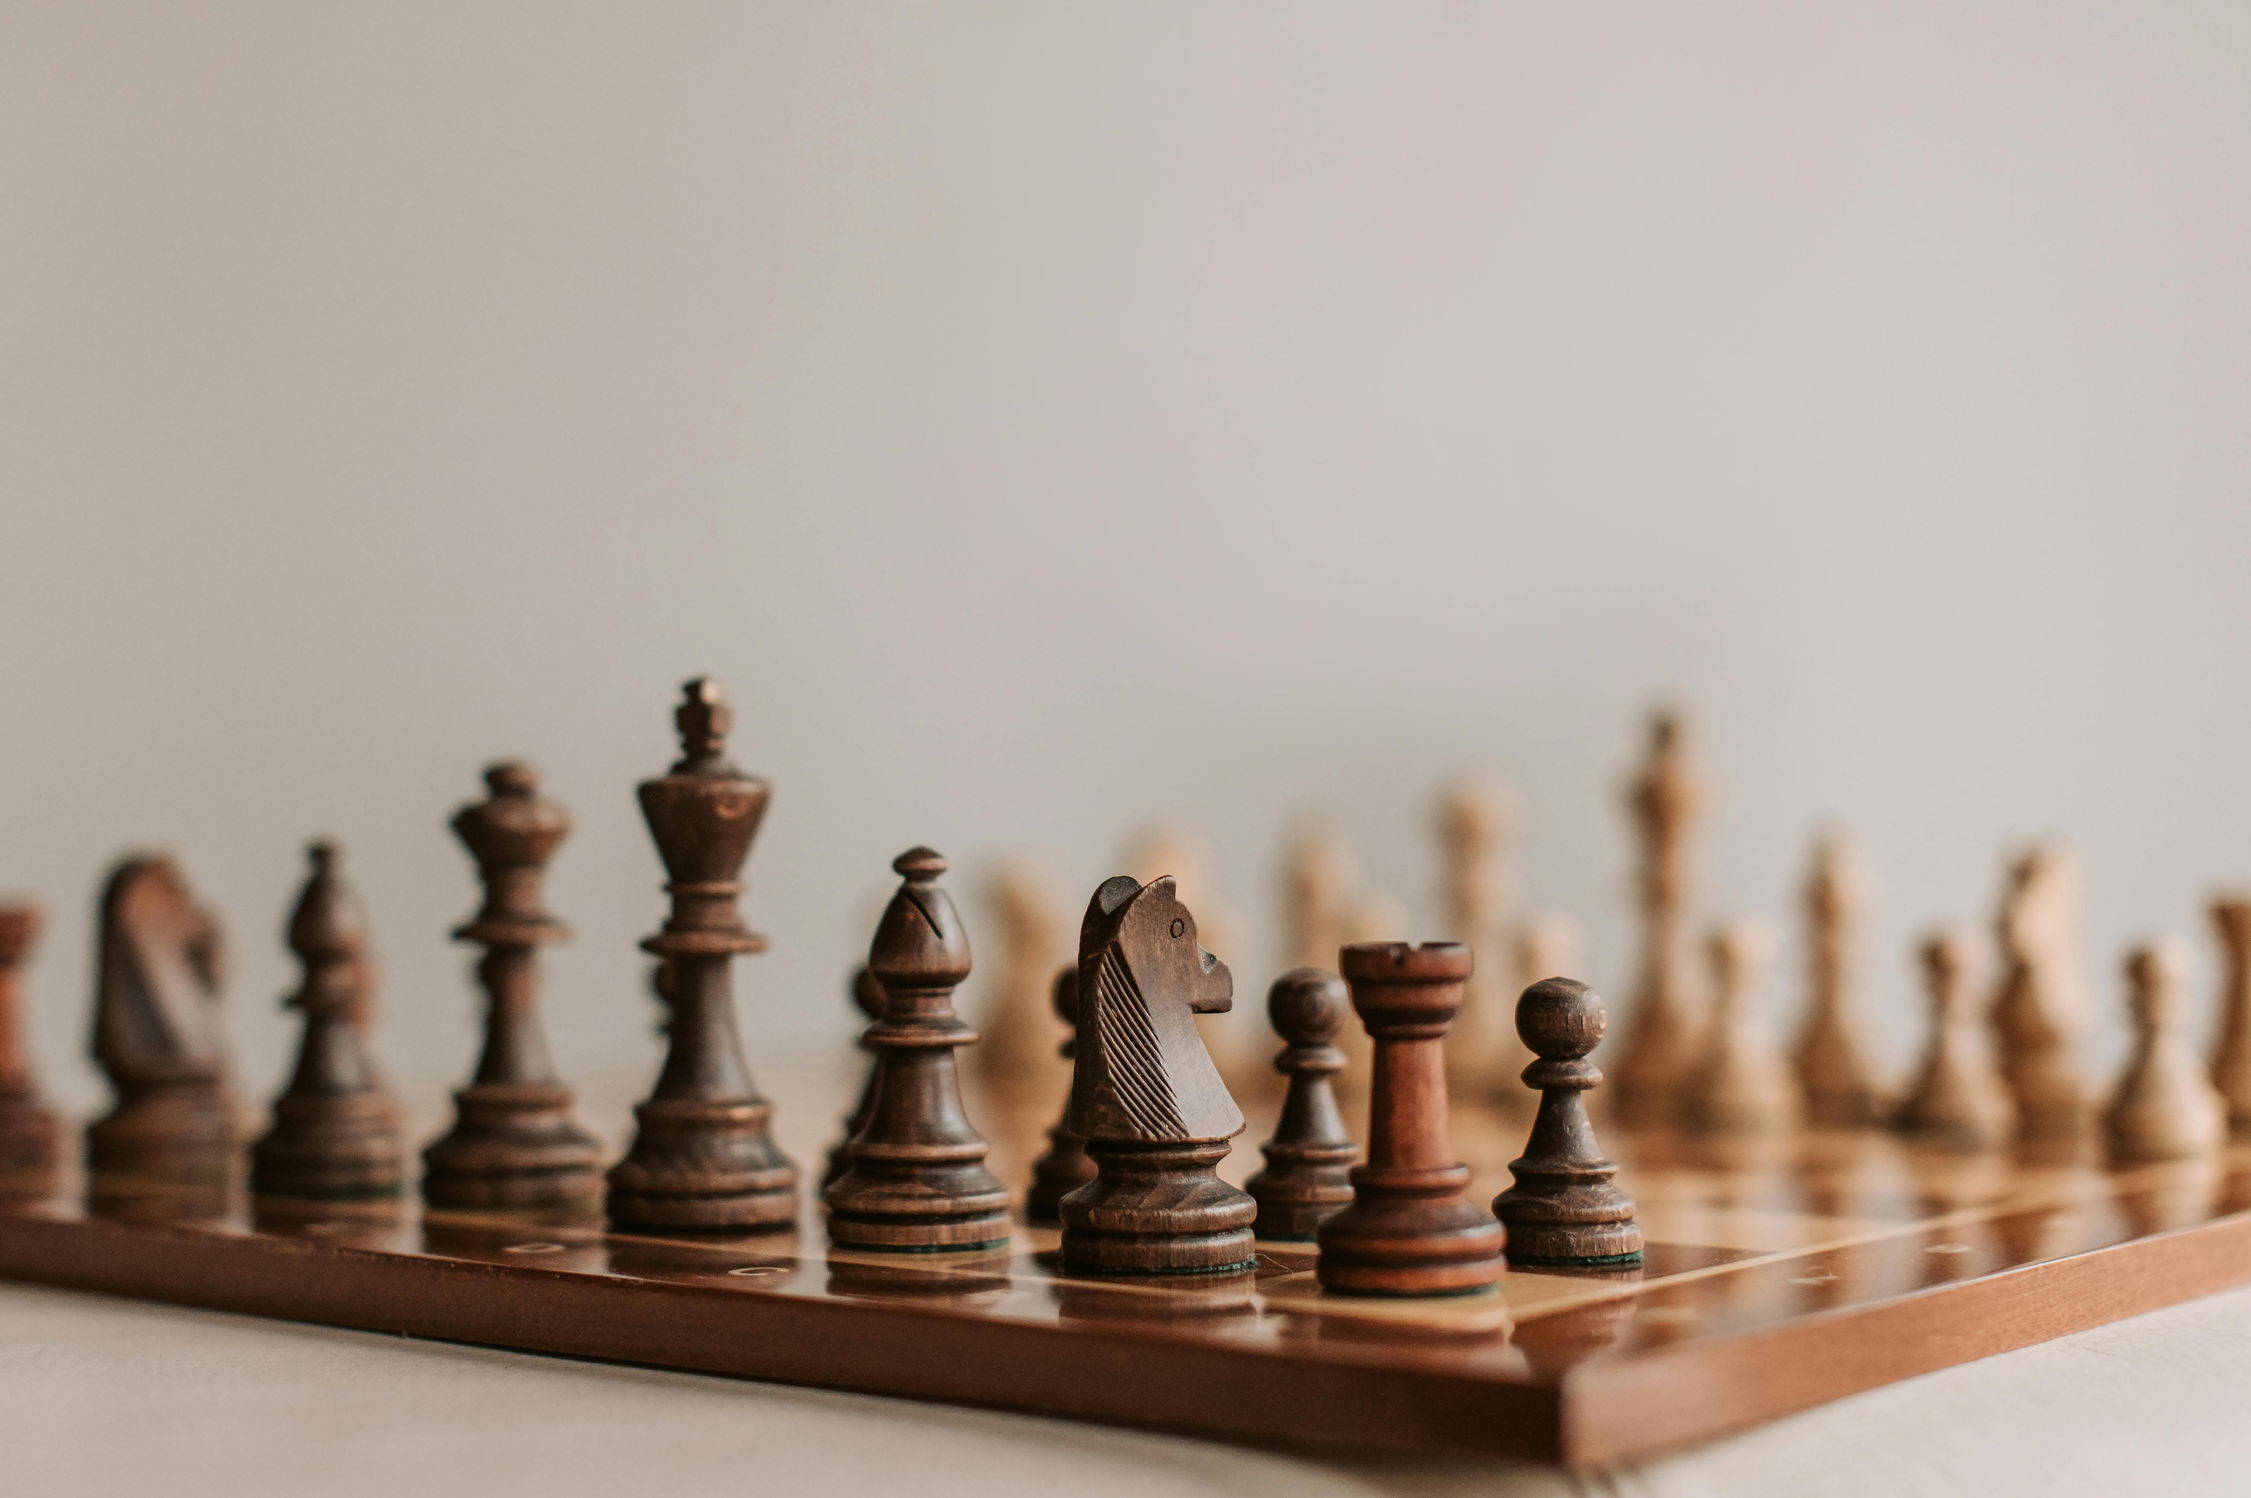
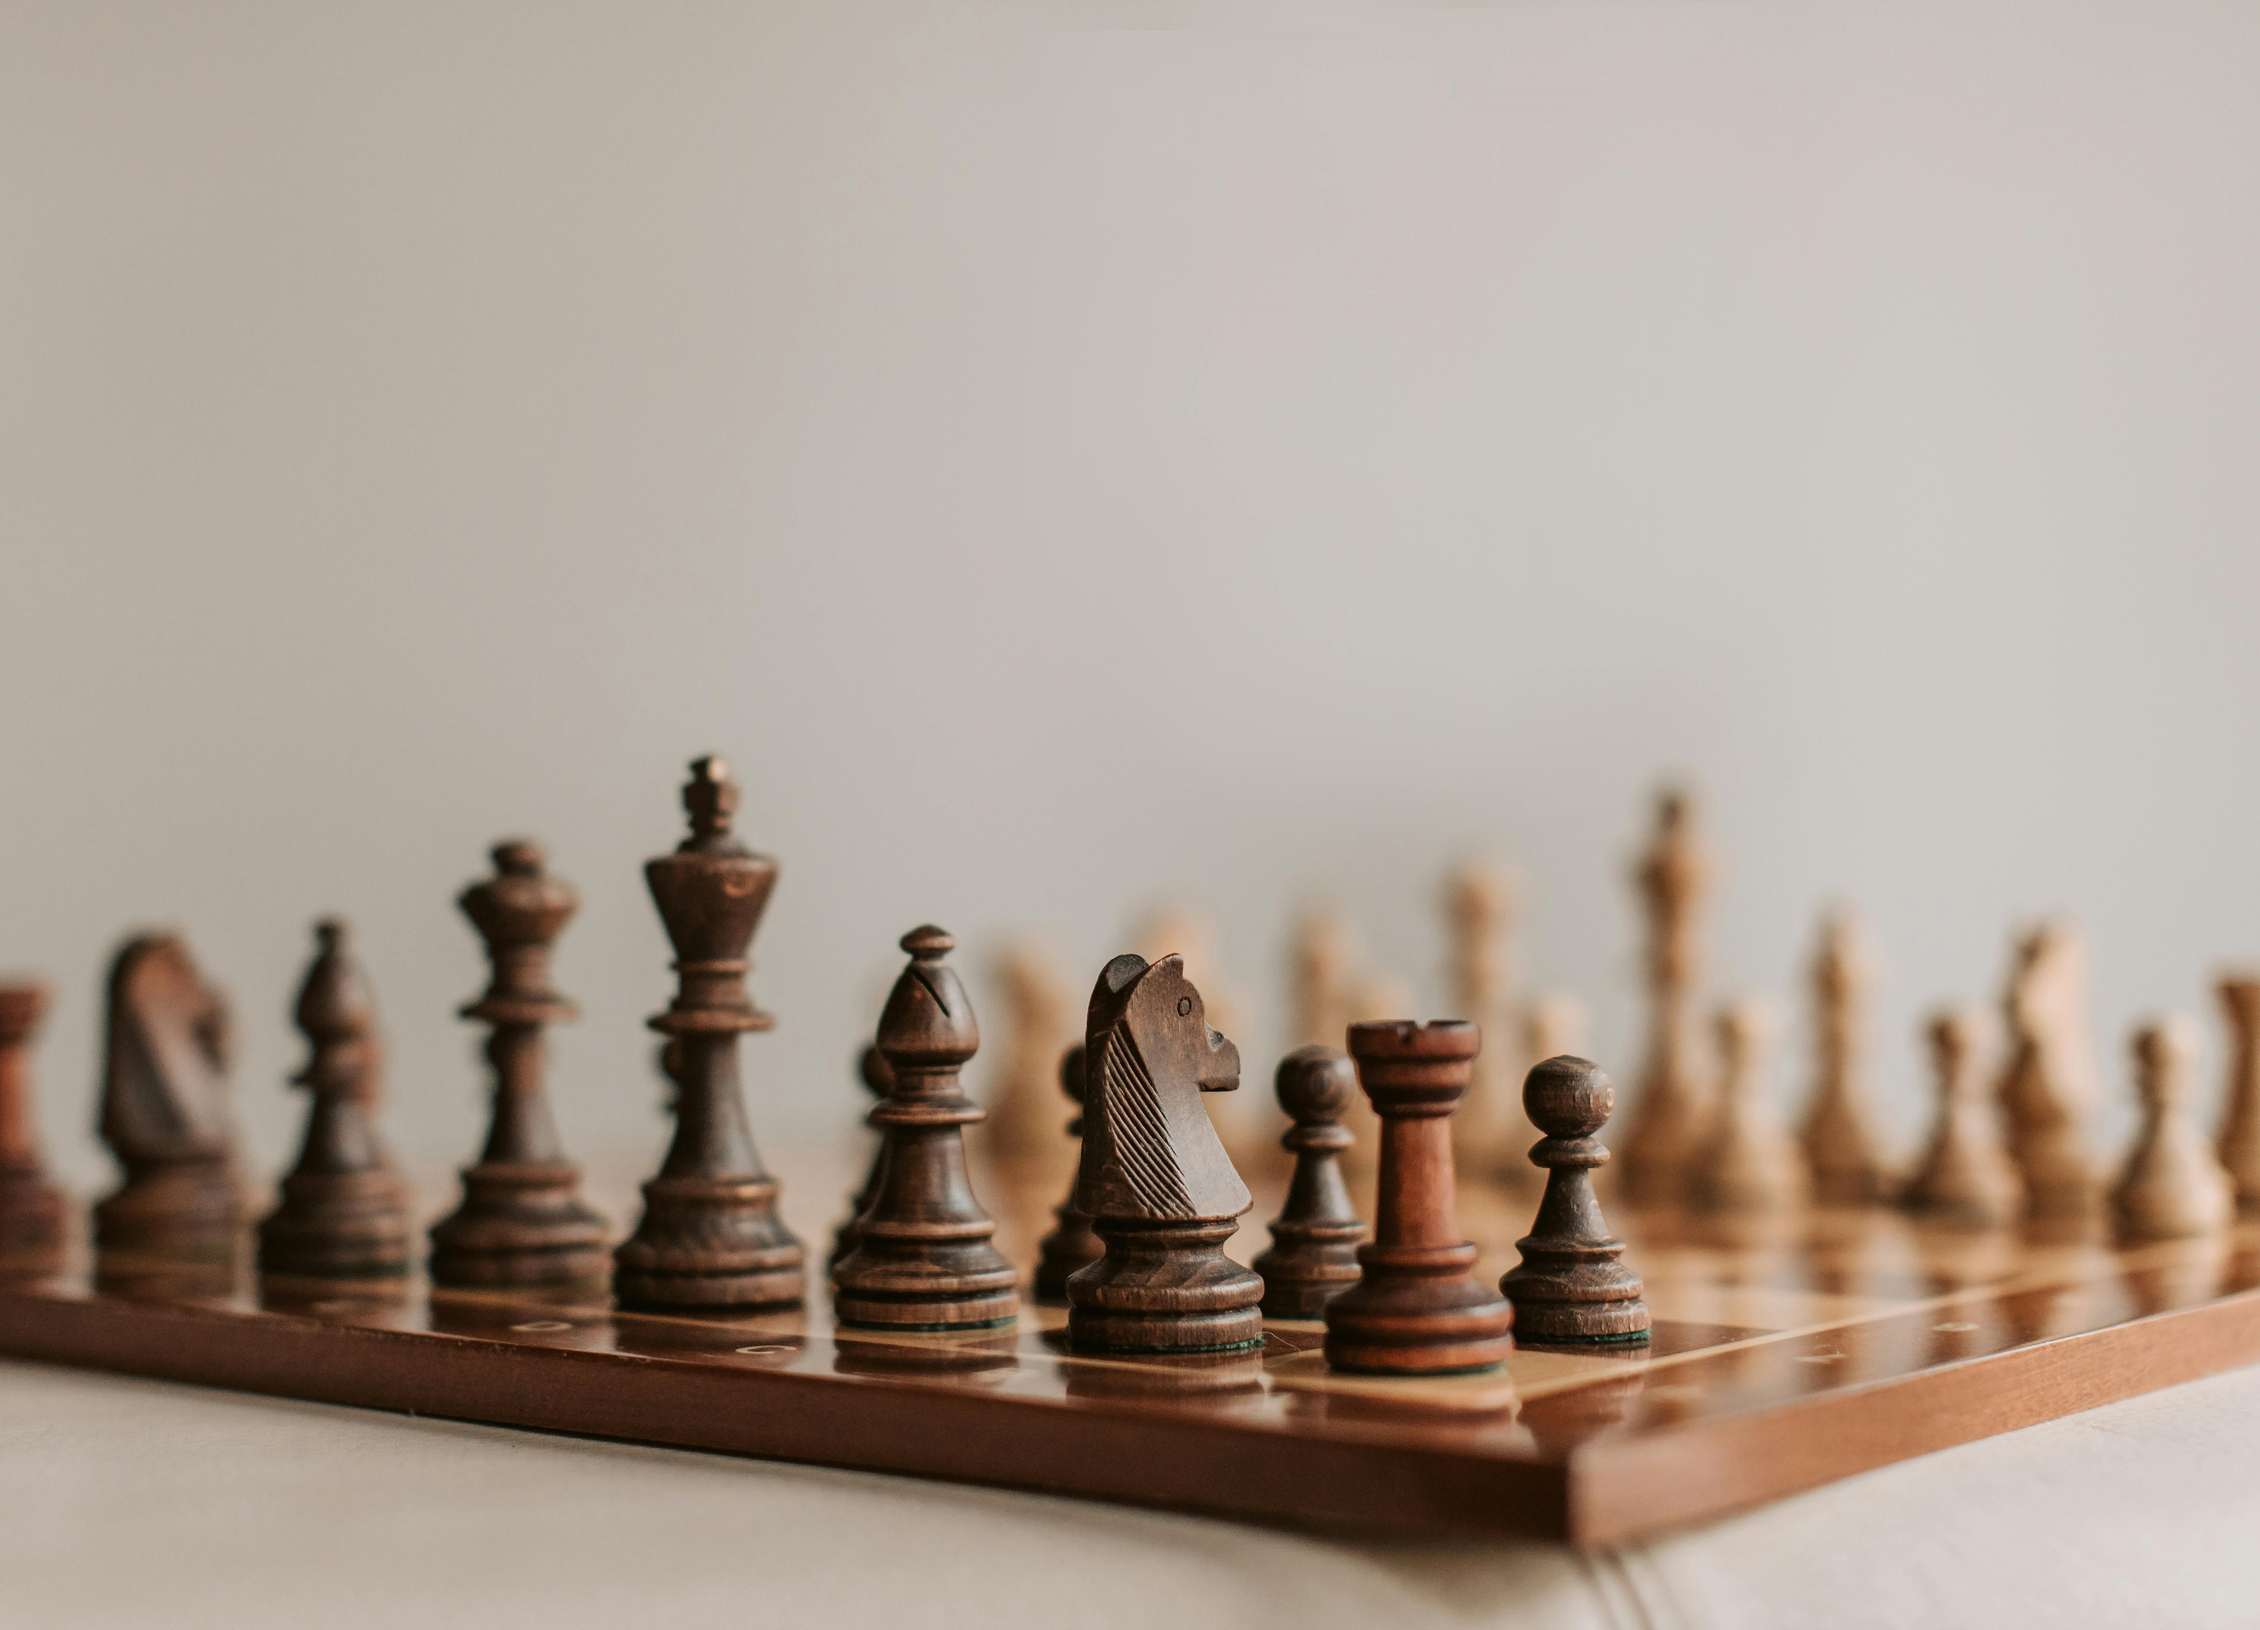
Complétion du HTML et CSS des pages d'accueil, Se connecter et S'inscrire (malgré quelque bugs)

Changed region(s): [[0.0, 0.4373, 1.0, 1.0], [0.9355, 0.6247, 0.9667, 0.6559], [0.7172, 0.4685, 0.7484, 0.4997]]

diff --git a/app/static/css/style.css b/app/static/css/style.css
@@ -48,7 +48,7 @@
 */
 
 header{
-    height: 100px;
+    height: 20%;
     z-index: 10;
 }
 
@@ -59,31 +59,12 @@ header{
     flex-direction: row;
 }
 
-#header-nav-logo{
-    width:20%;
-    display: flex;
-}
-
-#header-nav-logo>a{
-    width: 100%;
-    height: 100%;
-    display: flex;
-    flex-direction: row;
-    align-items: center;
-}
-
-#header-nav-logo img{
-    width: 100%;
-}
-
-
-
 #header-nav>ul{
     display: flex;
     flex-direction: row;
     justify-content: flex-end;
     align-items: center;
-    gap: 100px;
+    gap: 12%;
 }
 
 #header-nav li a:hover{
@@ -93,22 +74,7 @@ header{
 #header-nav a{
     color: #797a7a;
     text-decoration: none;
-    width: 30%;
 }
-
-#footer-nav {
-    height: 100px;
-    display: flex;
-    flex-direction: row;
-    justify-content: space-between;
-    align-items: center;
-    gap: 100px;
-    position: absolute;
-    right: 0%;
-    margin-top: auto;
-    z-index: 100000;
-}
-
 
 .content-index, .content-404, .content-register, .content-profile{
     height:80vh;
@@ -127,26 +93,48 @@ header{
 
 
 body{
-  font-family: Arial, sans-serif;
+    font-family: Arial, sans-serif;
     background-color: #F8F3E3;
     display: flex;
     flex-direction: column;
     align-items: center;
     min-height: 100vh;
 }
+main {
+  flex: 1;
+}
+#header-nav-logo{
+  width:20%;
+  display: flex;
+}
+
+#header-nav-logo>a{
+  width: 100%;
+  height: 100%;
+  display: flex;
+  flex-direction: row;
+  align-items: center;
+}
+
+#header-nav-logo img{
+  width:40%;
+  position: relative;
+}
 
 #logo{
-  width: 8% !important;
   height: auto;
-  left: 5%;
-  position: absolute;
-  top:2%;
+  left: 15%;
+  top:10%;
+  z-index: 100;
 }
 #header-nav-menu{
     width: 80%;
-    padding-right: 100px;
+    padding-right: 16%;
+    display: flex;
 }
 .titre_menu{
+  position: relative;
+  top:10%;
   font-family: "Aldrich", sans-serif;
   font-weight: 400;
   font-style: normal;
@@ -158,6 +146,7 @@ body{
   font-style: normal;
   text-decoration: underline;
   text-decoration-color: #797a7a;
+  white-space: nowrap;
 }
 #carres-top-right{
   position: absolute;
@@ -165,6 +154,11 @@ body{
   top: 0%;
   height: 25%;
   width: auto;
+}
+body.accueil {
+  background-image: url("../imgs/echecs-accueil.jpg");
+  background-size: cover;
+  background-position: center;
 }
 #bienvenue{
   color: #8D493A;
@@ -191,7 +185,17 @@ body{
   top:0px;
   left:0px;
 }
-
+#footer{
+  position: relative;
+  width: 100%;
+}
+#footer-nav{
+  position: absolute; /* Permet de placer les contacts où l'on veut */
+  bottom: 5%; /* Ajuste la position verticale */
+  right: 5%; /* Ajuste la position horizontale */
+  text-align: right;
+  z-index: 30; /* Plus élevé pour s'assurer que le texte soit au-dessus du cercle */
+}
 #footer .infos_contacts{
   color:#A2845E;
   font-family: "Bakbak One", sans-serif;
@@ -199,24 +203,37 @@ body{
   font-style: normal;
   font-size: 110%;
 }
-#contacts{
+#footer #contacts{
   color:#8D493A;
   font-family: "Aldrich", sans-serif;
   font-weight: 400;
   font-style: normal;
   font-size: 130%;
 }
-#carres-bottom-left{
+#carres-bottom-left {
   position: absolute;
-  left: 0%;
-  bottom:0%;
-  height: 20%;
-  width: auto;
+  left: 0;
+  bottom: 0;
+  width: 100px; 
+  height: 100px; 
+  z-index: 1;
 }
-#cercle-contacts{
+#cercle-contacts {
   position: absolute;
-  right: 0%;
-  bottom:0%;
-  height: 40%;
-  width: auto;
+  right: 0;
+  bottom: 0;
+  height: auto; /* Ajuste selon la taille souhaitée */
+  width: 20%; /* Taille relative pour s'adapter à l'écran */
+  z-index: 10;
+}
+#footer-nav {
+  background-color: rgba(255, 0, 0, 0.3); /* Rouge transparent pour visualisation */
+}
+
+#carres-bottom-left {
+  background-color: rgba(0, 255, 0, 0.3); /* Vert transparent pour visualisation */
+}
+
+#cercle-contacts {
+  background-color: rgba(0, 0, 255, 0.3); /* Bleu transparent pour visualisation */
 }

diff --git a/app/templates/base.html b/app/templates/base.html
@@ -15,18 +15,18 @@
                     <img id="logo" src="{{url_for('static', filename='imgs/logo-echecs-csud.png')}}" alt="logo-csud"/>
                 </a>
             </div>
-            <img id="carres-top-right" src="{{url_for('static', filename='imgs/carres-top-right.png')}}" alt="carres-top-right"">
+            <img id="carres-top-right" src="{{url_for('static', filename='imgs/carres-top-right.png')}}" alt="carres-top-right" >
             <ul id="header-nav-menu">
                     <li class="titre_menu" id="menu_membres"> MEMBRES</li>
                     <li class="titre_menu" id="menu_entrainement"> ENTRAÎNEMENT</li>
                     <li class="titre_menu" id="menu_tournoi"> TOURNOI</li>
                     <li class="titre_menu" id="menu_infos"> INFOS</li>
                 {% if g.user %}
-                    <li><span>{{ g.user['username'] }}</span>
-                    <li><a href="{{ url_for('auth.logout') }}">Se déconnecter</a>
+                    <li><span>{{ g.user['username'] }}</span></li>
+                    <li><a href="{{ url_for('auth.logout') }}">Se déconnecter</a></li>
                     <li><a href="{{url_for('user.show_profile')}}">Consulter son profil</a></li>
                 {% else %}
-                    <li id="menu_connecter"><a href="{{ url_for('auth.login') }}">SE CONNECTER</a>
+                    <li class="titre_menu" id="menu_connecter"><a href="{{ url_for('auth.login') }}">SE CONNECTER</a>
                 {% endif %}
             </ul>
         </nav>

diff --git a/app/templates/home/index.html b/app/templates/home/index.html
@@ -6,9 +6,10 @@
 
 
 {% block content%}
-<img id = "fond-accueil"src="{{url_for('static', filename='imgs/echecs-accueil.jpg')}}" alt="logo-csud"/>
-  <div class="content-index">
-    <h2 id="bienvenue">Bienvenue sur le site du</h2>
-    <h1 id="club-echecs-csud">Club d'échecs du CSUD!</h1>
-  </div>
+<body class="accueil">
+    <div class="content-index">
+      <h2 id="bienvenue">Bienvenue sur le site du</h2>
+      <h1 id="club-echecs-csud">Club d'échecs du CSUD!</h1>
+    </div>
+</body>
 {% endblock %}
